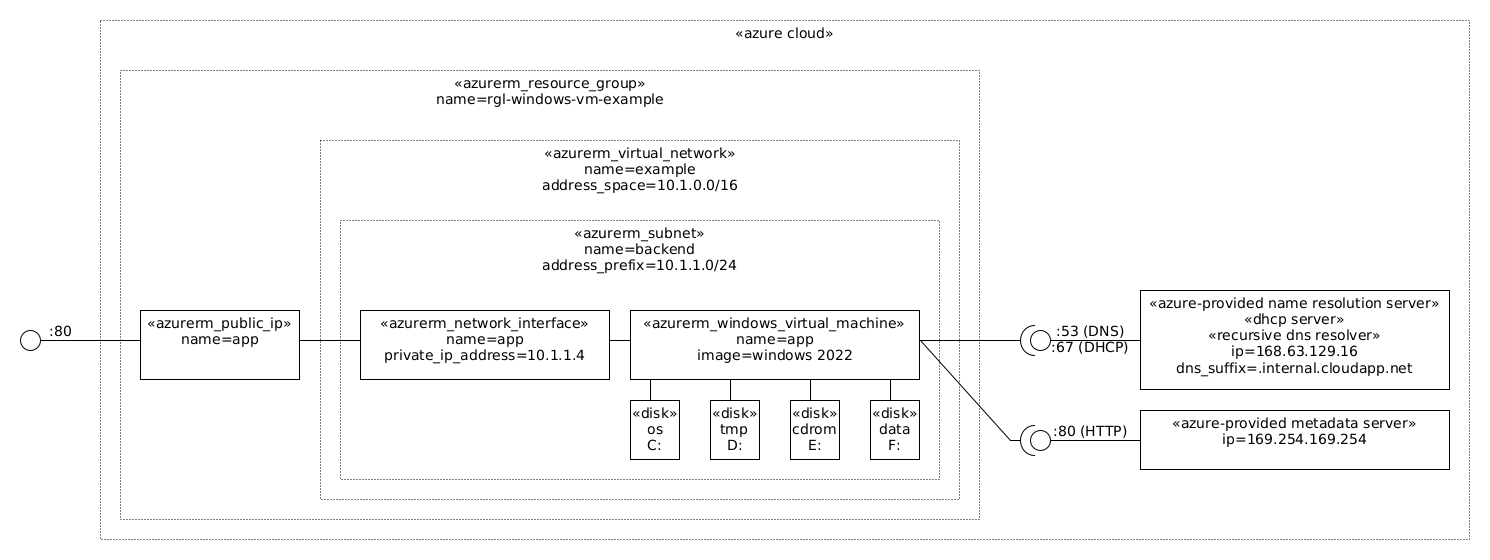
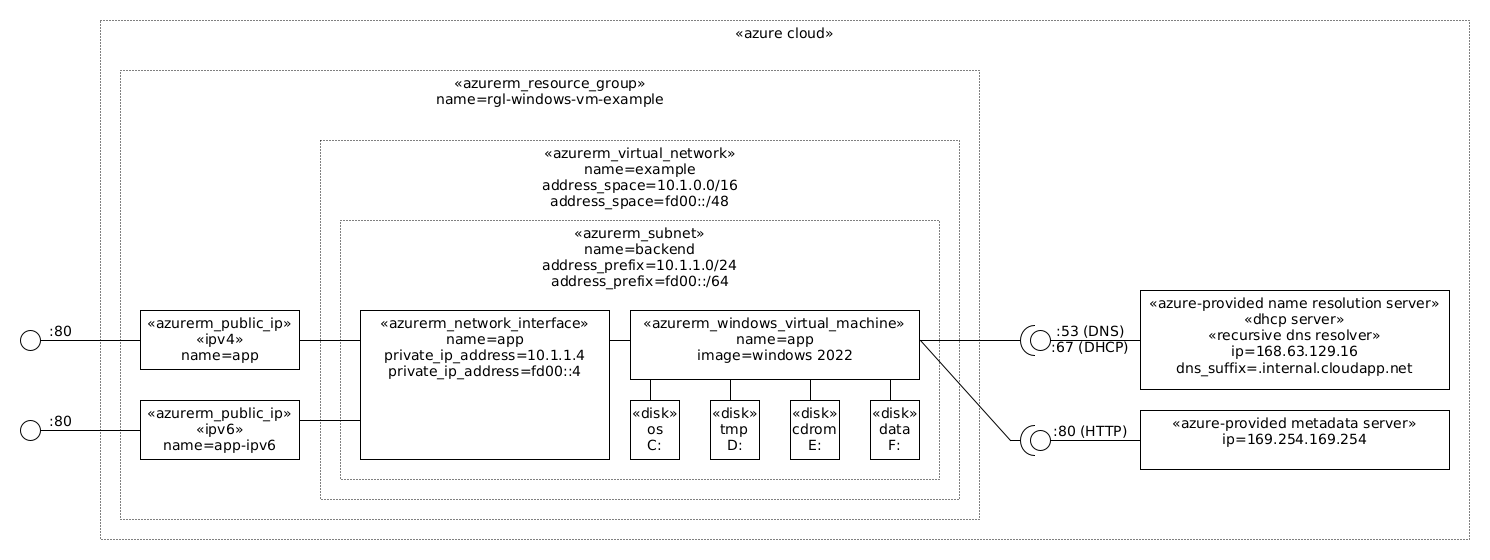
configure ipv6

diff --git a/README.md b/README.md
@@ -10,7 +10,7 @@ Install the tools:
 ./provision-tools.sh
 ```
 
-Login into azure-cli:
+Login into azure:
 
 ```bash
 az login
@@ -59,6 +59,7 @@ After VM initialization is done (the log is stored at `c:\AzureData\provision-lo
 
 ```bash
 while ! wget -qO- "http://$(terraform output --raw app_ip_address)/test"; do sleep 3; done
+while ! wget -qO- "http://[$(terraform output --raw app_ipv6_ip_address)]/test"; do sleep 3; done
 ```
 
 You can also list all resources:
@@ -92,6 +93,40 @@ az vm run-command invoke \
     > output.json \
     && jq -r '.value[].message' output.json \
     && rm output.json
+```
+
+Access using RDP, either using Remmina or FreeRDP:
+
+```bash
+remmina --connect "rdp://rgl@$(terraform output --raw app_ip_address)"
+xfreerdp "/v:$(terraform output --raw app_ip_address)" /u:rgl /size:1440x900 +clipboard
+```
+
+Inside the RDP session, open a PowerShell session, and poke around:
+
+```powershell
+ipconfig /all
+route print
+ping -6 -n 3 2606:4700:4700::1111    # cloudflare dns.
+ping -6 -n 3 2606:4700:4700::1001    # cloudflare dns.
+ping -6 -n 3 ff02::1                 # all nodes.   # NB does not work in azure.
+ping -6 -n 3 ff02::2                 # all routers. # NB does not work in azure.
+ping -4 -n 3 ip6.me
+ping -6 -n 3 ip6.me
+Resolve-DnsName ip6.me
+Resolve-DnsName ip6.me -Server 2606:4700:4700::1111
+curl.exe -4 https://ip6.me/api/ # get the vm public ipv4 address.
+curl.exe -6 https://ip6.me/api/ # get the vm public ipv6 address.
+curl.exe http://ip6only.me/api/ # get the vm public ipv6 address.
+curl.exe http://10.1.1.4/test   # try the app private ipv4 endpoint.
+curl.exe http://[fd00::4]/test  # try the app private ipv6 endpoint.
+$ipv6_public_test_url="http://[$(((curl.exe -6 -s https://ip6.me/api/) -split ',')[1])]/test"
+curl.exe "$ipv6_public_test_url" # try the app public ipv6 endpoint.
+echo @"
+go to https://dnschecker.org/server-headers-check.php and test the app ipv6 url:
+$ipv6_public_test_url
+"@
+exit
 ```
 
 Destroy the example:
